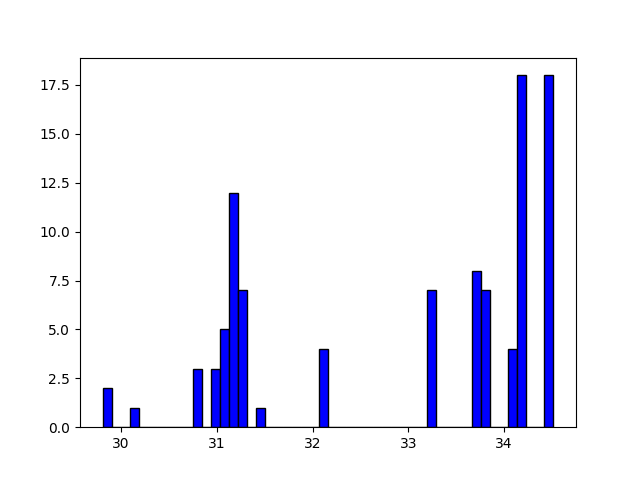
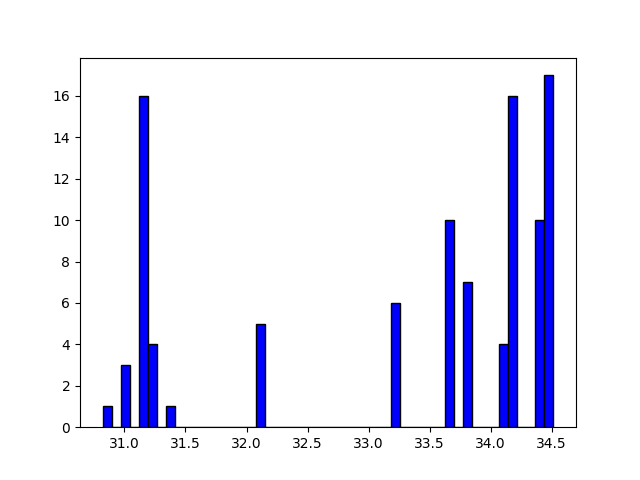
lab9: bit rate functions corrected, results updated

diff --git a/Core/science_utils.py b/Core/science_utils.py
@@ -4,6 +4,8 @@ from Core.utils import BERt
 from Core.utils import Rs
 from Core.utils import Bn
 
+from scipy import special
+
 
 def linear_to_db_conversion(x):
     return 10 * np.log10(x)
@@ -18,18 +20,18 @@ def db_to_linear_conversion(x):
 
 
 def fixed_rate_condition(x):
-    if x >= 2 * (2 * BERt) * (Rs / Bn):
+    if x >= 2 * (special.erfcinv(2 * BERt) ** 2) * (Rs / Bn):
         return 100
     else:
         return 0
 
 
 def flex_rate_condition(x):
-    if x < 2 * (2 * BERt) * (Rs / Bn):
+    if x < 2 * (special.erfcinv(2 * BERt) ** 2) * (Rs / Bn):
         return 0
-    elif x < (14 / 3) * ((3 / 2) * BERt) * (Rs / Bn):
+    elif x < (14 / 3) * (special.erfcinv((3 / 2) * BERt) ** 2) * (Rs / Bn):
         return 100
-    elif x < 10 * ((8 / 3) * BERt) * (Rs / Bn):
+    elif x < 10 * (special.erfcinv((8 / 3) * BERt) ** 2) * (Rs / Bn):
         return 200
     else:
         return 400

diff --git a/Core/utils.py b/Core/utils.py
@@ -10,11 +10,11 @@ input_signal_power = 0.001
 number_of_channels = 10
 gain = 16  # dB
 noise_figure = 3  # dB
-h = 6.62607015 * (10 ** (-34))  # Plack constant
-f = 193.414 * (10 ** 12)  # C-band center frequency
+h = 6.62607015e-34  # Plack constant
+f = 193.414e12  # C-band center frequency
 alpha = 0.2  # dB/km
-beta2 = 2.13e-26  # ps^2/km
-gamma = 1.27  # 1/Wm
+beta2 = 2.13e-26  # (m Hz^2)^-1
+gamma = 1.27e-3  # (m W)^-1
 df = 50e9
 Rs = 32000000
 Bn = 12500000
